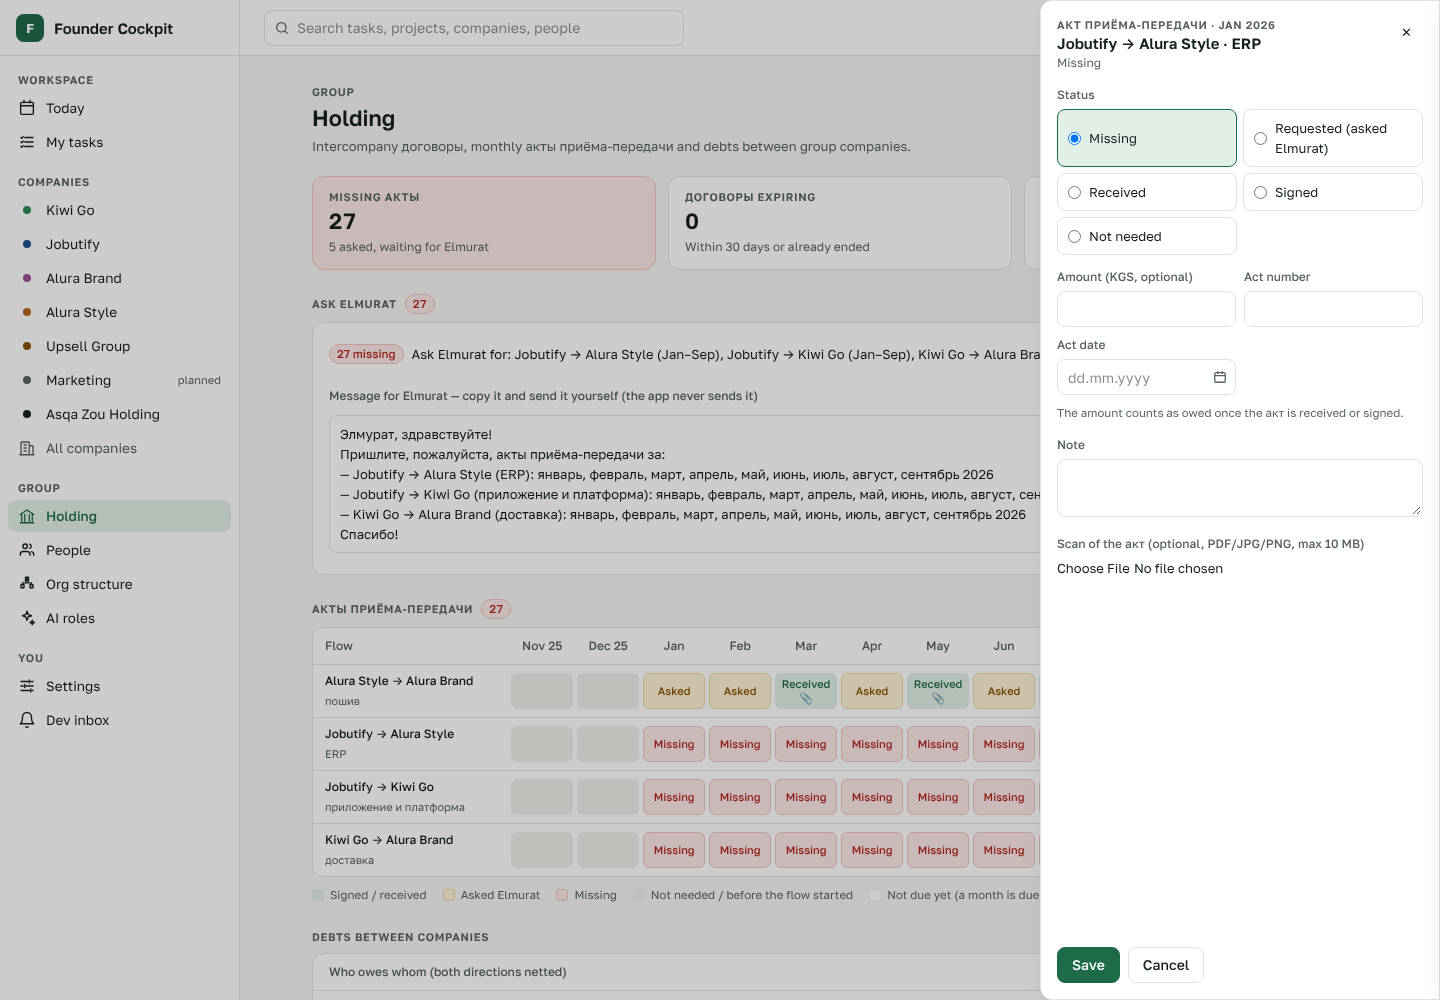
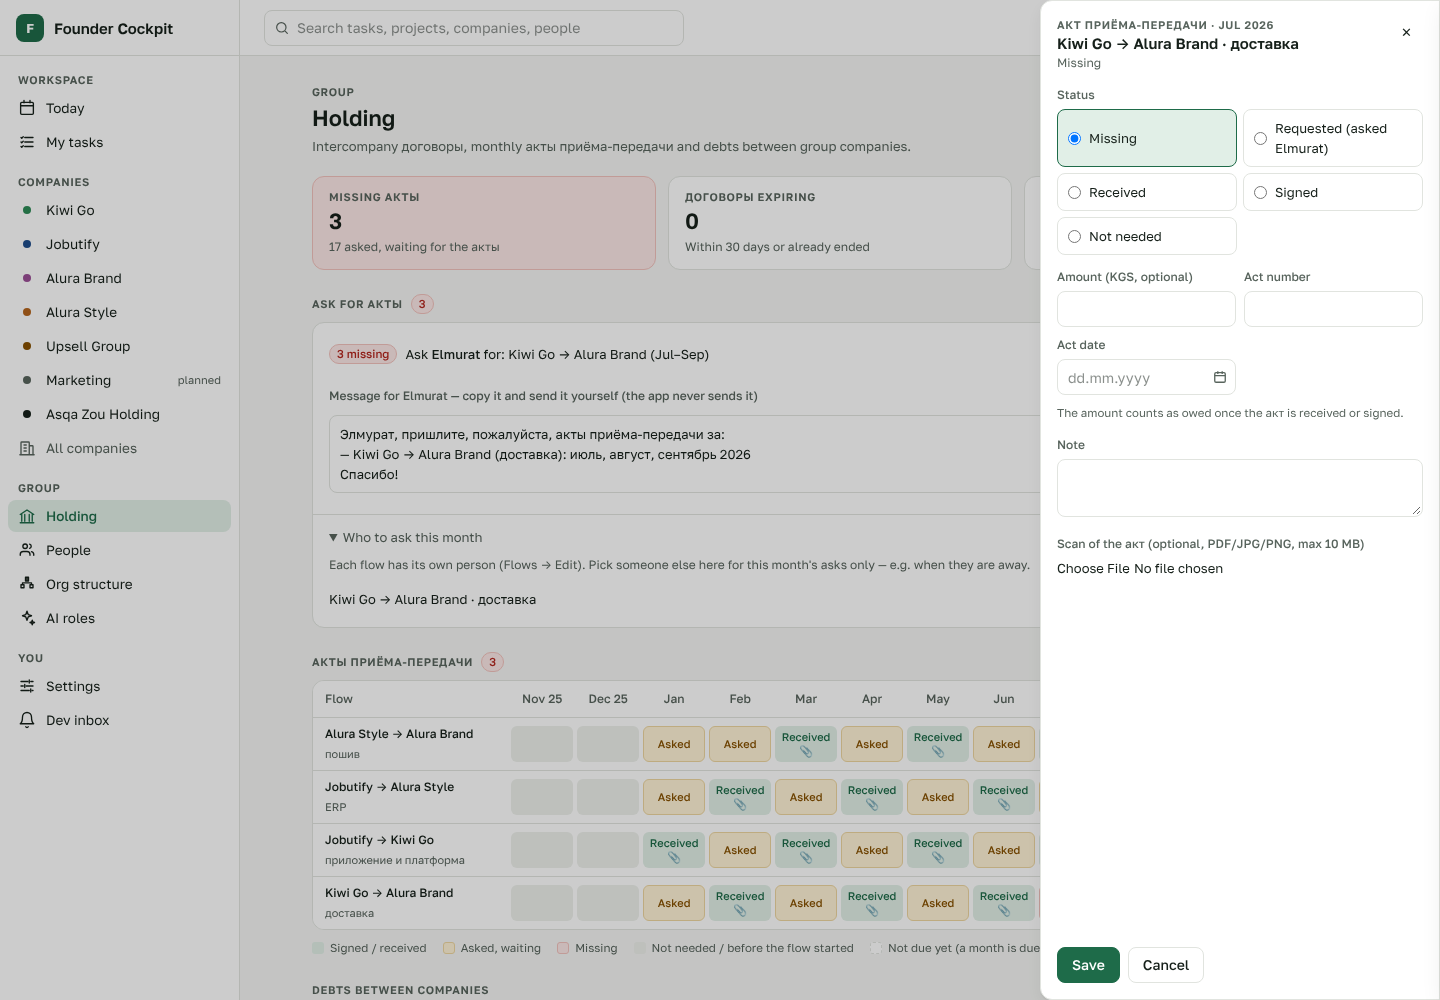
e2e + screenshots: who to ask per flow / per round; holding screenshots re-taken
Claude-Session: https://claude.ai/code/session_01Lm7ff7THzG6EBcYphgva3C

diff --git a/e2e/holding.spec.ts b/e2e/holding.spec.ts
@@ -110,3 +110,49 @@ test("company tab title uses the name; date fields show dd.mm.yyyy and refuse im
   await actDate.blur();
   await expect(actDate).toHaveValue("02.10.2026");
 });
+
+test("holding: who to ask — per flow (Flows → Edit) and per round (Ask for акты), grouped by person", async ({ page }) => {
+  await login(page, "nuraaly");
+  await page.goto("/holding");
+  const flowRow = page.getByTestId("flows-list").locator("li", { hasText: "Jobutify" }).filter({ hasText: "Kiwi Go" }).first();
+  await expect(flowRow.getByTestId("flow-ask-person")).toHaveText("Ask: Elmurat");
+
+  // Per flow: Edil (he works for Jobutify) instead of Elmurat.
+  await flowRow.getByRole("button", { name: /^Edit / }).click();
+  const form = page.getByRole("form", { name: /^Edit Jobutify → Kiwi Go/ });
+  await expect(form.getByLabel("Who to ask for the акты")).toHaveValue(/.+/);
+  await form.getByLabel("Who to ask for the акты").selectOption({ label: "Edil" });
+  await form.getByRole("button", { name: "Save" }).click();
+  await expect(flowRow.getByTestId("flow-ask-person")).toHaveText("Ask: Edil");
+
+  // The card groups by person: when that flow has something to ask, Edil gets his own block + message.
+  const acts = (await (await page.request.get("/api/v1/holding/acts")).json()) as {
+    data: { ask: { people: { person: { name: string } | null; message: string }[]; flows: { label: string }[] } };
+  };
+  const edil = acts.data.ask.people.find((p) => p.person?.name === "Edil");
+  if (acts.data.ask.flows.some((f) => f.label.startsWith("Jobutify → Kiwi Go"))) {
+    expect(edil?.message.split("\n")[0]).toBe("Эдил, пришлите, пожалуйста, акты приёма-передачи за:");
+    await expect(page.getByRole("region", { name: "Ask Edil" })).toBeVisible();
+  }
+
+  // Per round: pick someone else for this month only, then go back to the flow's person.
+  const who = page.getByTestId("who-to-ask");
+  if (await who.count()) {
+    await who.locator("summary").click();
+    const select = who.locator("select").first();
+    const options = await select.locator("option").allTextContents();
+    const other = options.find((o) => o.endsWith("this month only"));
+    if (other) {
+      await select.selectOption({ label: other });
+      await expect(who.locator("summary")).toContainText("1 changed");
+      await who.locator("select").first().selectOption({ index: 0 });
+      await expect(who.locator("summary")).not.toContainText("changed");
+    }
+  }
+
+  // Back to Elmurat (the e2e database is reused between runs).
+  await flowRow.getByRole("button", { name: /^Edit / }).click();
+  await form.getByLabel("Who to ask for the акты").selectOption({ label: "Elmurat" });
+  await form.getByRole("button", { name: "Save" }).click();
+  await expect(flowRow.getByTestId("flow-ask-person")).toHaveText("Ask: Elmurat");
+});

diff --git a/e2e/screenshots.spec.ts b/e2e/screenshots.spec.ts
@@ -91,6 +91,10 @@ test("holding screenshots", async ({ page }) => {
   await page.goto("/holding");
   await page.getByTestId("acts-grid").waitFor();
   await page.screenshot({ path: "docs/screenshots/holding-desktop.png", fullPage: true });
+  // The "Ask for акты" card: one block per person, the Russian message, "Who to ask this month".
+  const who = page.getByTestId("who-to-ask");
+  if (await who.count()) await who.locator("summary").click();
+  await page.getByTestId("ask-card").screenshot({ path: "docs/screenshots/holding-ask-card.png" });
   const cell = page.locator('[data-testid="act-cell"][data-cell-state="missing"]').first();
   await cell.click();
   await page.getByTestId("act-panel").waitFor();

diff --git a/README.md b/README.md
@@ -933,7 +933,7 @@ vercel.json                Vercel build command (npm run vercel-build); no crons
 supabase/policies.sql      RLS policies for a future direct-client mode (applied by hand)
 tests/                     Vitest unit + service tests
 e2e/                       Playwright smoke test + screenshots
-docs/screenshots/          UI screenshots (org-desktop.png, org-edit-mode.png, org-phone.png, ai-roles-hire-wizard.png, ai-report.png, holding-desktop.png, holding-act-panel.png, numbers-grid.png, people-list-salaries.png, …)
+docs/screenshots/          UI screenshots (org-desktop.png, org-edit-mode.png, org-phone.png, ai-roles-hire-wizard.png, ai-report.png, holding-desktop.png, holding-act-panel.png, holding-ask-card.png, numbers-grid.png, people-list-salaries.png, …)
 docs/samples/              people-sample.csv, kiwi-go-numbers-sample.csv (fake data) for the importers
 docs/reviews/              Independent reviews and how each finding was resolved
 ```
